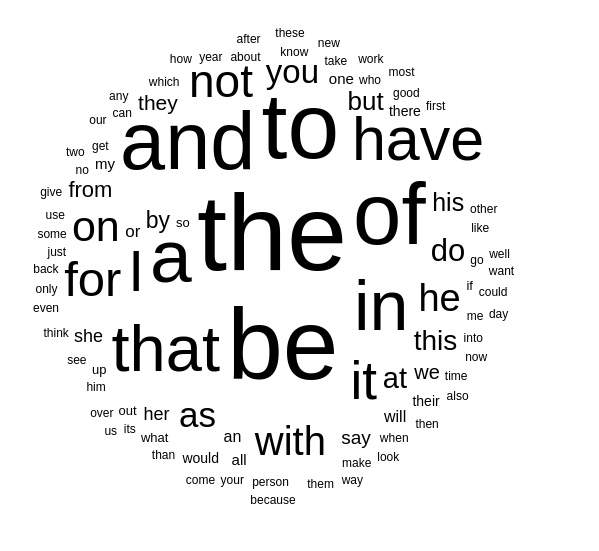
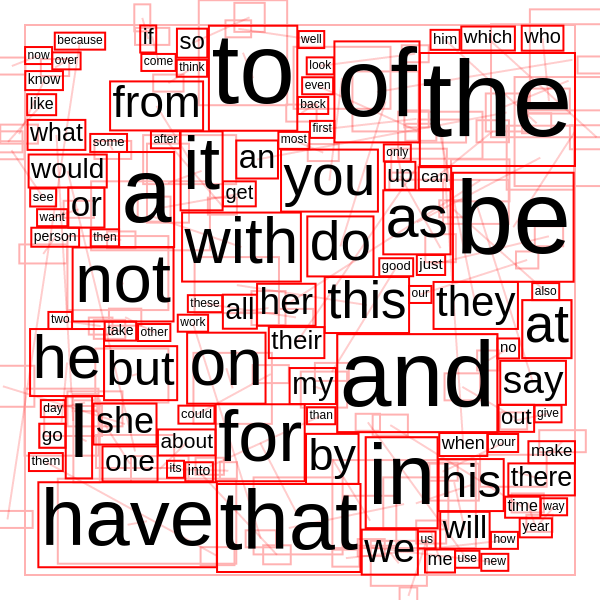
changed example

diff --git a/index.html b/index.html
@@ -61,15 +61,15 @@
 			var word = mostPopularWords[i];
 
 			// The size of the word will be a function of it's popularity
-			var fontSize = 12 + Math.floor(Math.pow((100 - i)/100,8) * 96);
+			var fontSize = 12 + Math.floor(Math.pow((100 - i)/100,4) * 96);
 
 			// Measure the word's size
 			context.font = fontSize + "px Arial";
 			context.textAlign = "center";
 			var wordWidth = context.measureText(word).width;
 
-			// We'll put all the words at the center for now
-			var rect = new binpacking.Rect(300,300,wordWidth+5,fontSize+5);
+			// Place all the words randomly
+			var rect = new binpacking.Rect(Math.random() * 600,Math.random() * 600,wordWidth+5,fontSize+5);
 
 			// Store some meta-information
 			rect.addProperty("fontSize", fontSize);
@@ -78,14 +78,34 @@
 			rects.push(rect);
 		}
 
-		var placedRects = binpacking.pack(area, rects, 50);
+		// Draw the area that the rects will show up in
+		area.draw(context);
 
-		for (var i = 0;i < placedRects.length;i++){
-			context.font = placedRects[i].getProperty("fontSize") + "px Arial";
-			context.fillText(placedRects[i].getProperty("text"), placedRects[i].x, placedRects[i].y);
+		// Draw the rects in their initial position
+		for (var i = 0; i < rects.length;i++){
+			rects[i].draw(context);
 		}
 
+		// Fade all the previous drawings to show that they are just the initial positions
+		context.globalAlpha = .7;
+		context.fillStyle = "#fff";
+		context.fillRect(0,0,canvas.width, canvas.height);
 
+		var placedRects = binpacking.pack(area, rects, 10);
+
+		// Draw the rects in their final position
+		context.globalAlpha = 1;
+		for (var i = 0; i < placedRects.length;i++){
+			placedRects[i].draw(context);
+		}
+
+		// Draw the text into each rect
+		context.fillStyle = "#000";
+		for (var i = 0;i < placedRects.length;i++){
+			var fontSize = placedRects[i].getProperty("fontSize");
+			context.font = fontSize + "px Arial";
+			context.fillText(placedRects[i].getProperty("text"), placedRects[i].x, placedRects[i].y + fontSize/4);
+		}
 
 		</script>
 	</body>
